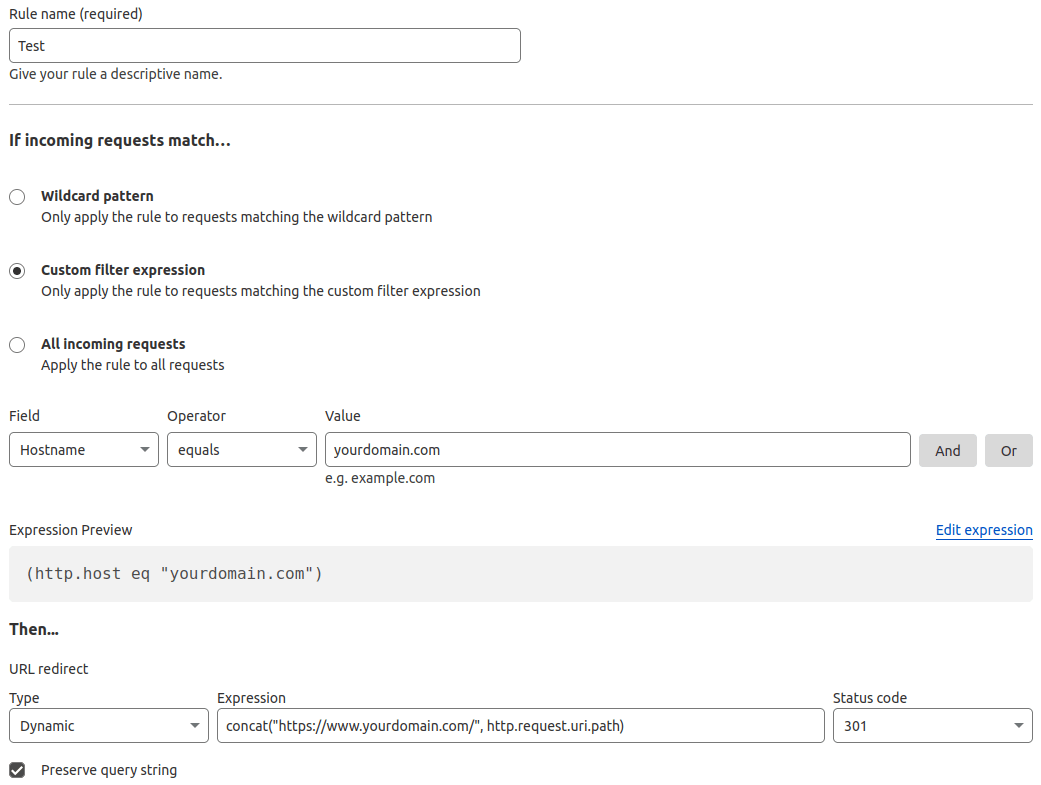
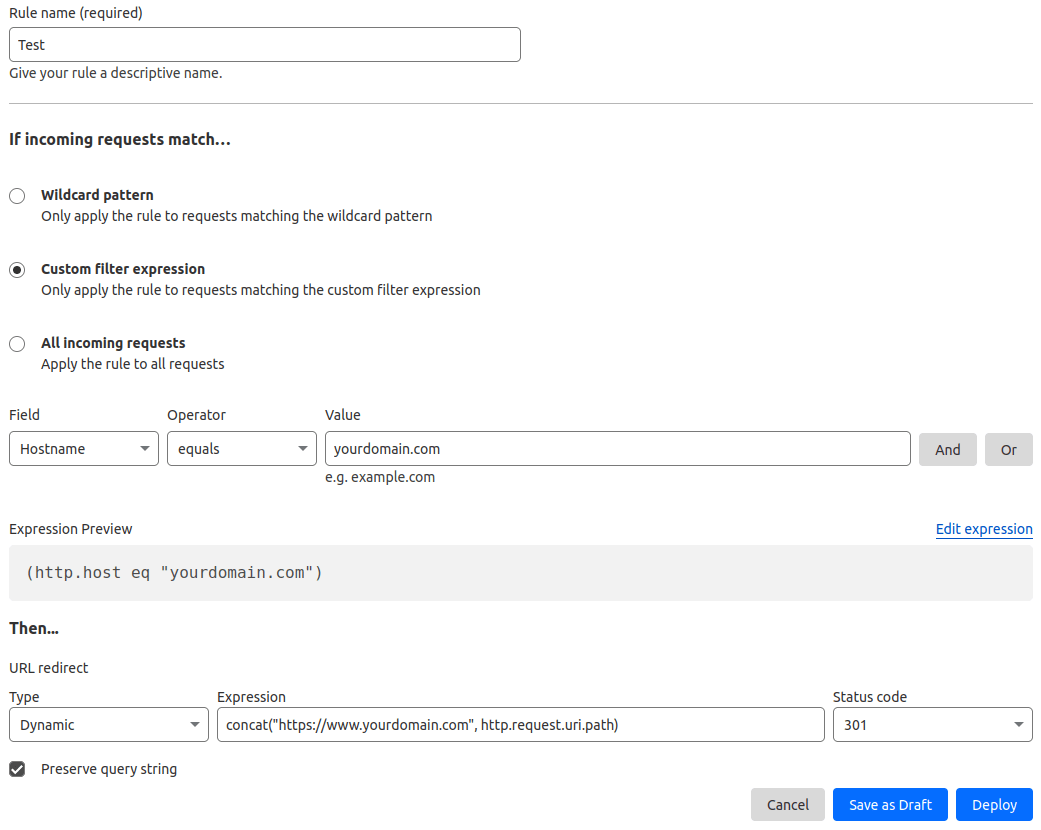
[IMP] website: remove slash in redirect rule expression
task-4113085

closes odoo/documentation#12049

X-original-commit: a00b6cf990a441a4d97a09d4e086c32901d739b6

diff --git a/content/applications/websites/website/configuration/domain_names.rst b/content/applications/websites/website/configuration/domain_names.rst
@@ -225,8 +225,8 @@ DNS hosting services do not offer an easy way to do so.
       :alt: Adding a CNAME DNS record to Cloudflare to redirect a www subdomain to an Odoo database
 
 #. Define a redirect rule to permanently redirect (301) your naked domain (e.g., `yourdomain.com`)
-   to both `http://` and `https://` by going to :menuselection:`Rules --> Redirect Rules --> Create
-   rule`, and:
+   to both `http://` and `https://` by going to :menuselection:`Rules --> Create rule --> Products`,
+   and clicking :guilabel:`Create a Rule` under :guilabel:`Redirect Rules`:
 
    - Enter any :guilabel:`Rule name`.
    - Under the :guilabel:`If incoming requests match...` section, select :guilabel:`Custom filter
@@ -239,7 +239,7 @@ DNS hosting services do not offer an easy way to do so.
    - Under the :guilabel:`Then...` section, use the following configuration:
 
      - :guilabel:`Type`: Dynamic
-     - :guilabel:`Expression`: e.g., `concat("https://www.yourdomain.com/", http.request.uri.path)`
+     - :guilabel:`Expression`: e.g., `concat("https://www.yourdomain.com", http.request.uri.path)`
      - :guilabel:`Status code`: 301
      - :guilabel:`Preserve query string`: enabled
 
